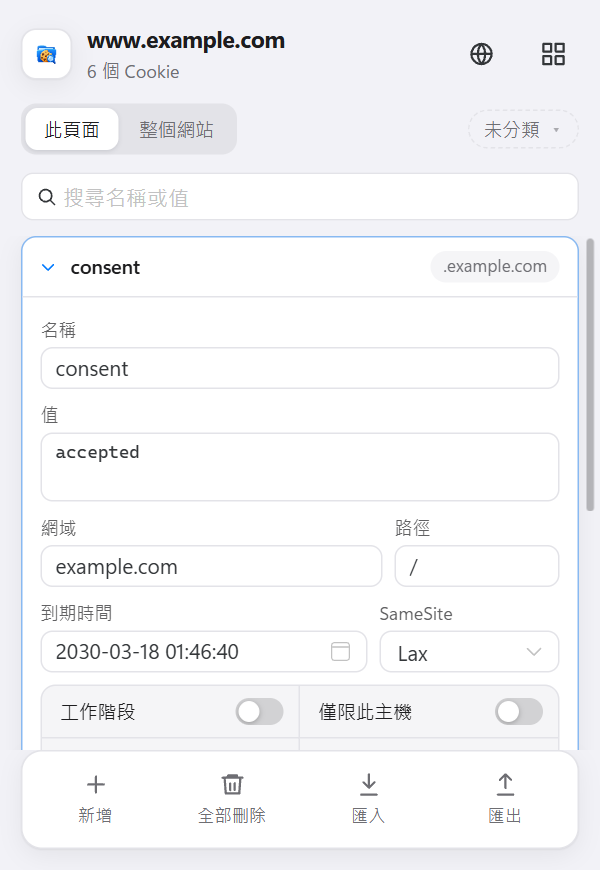
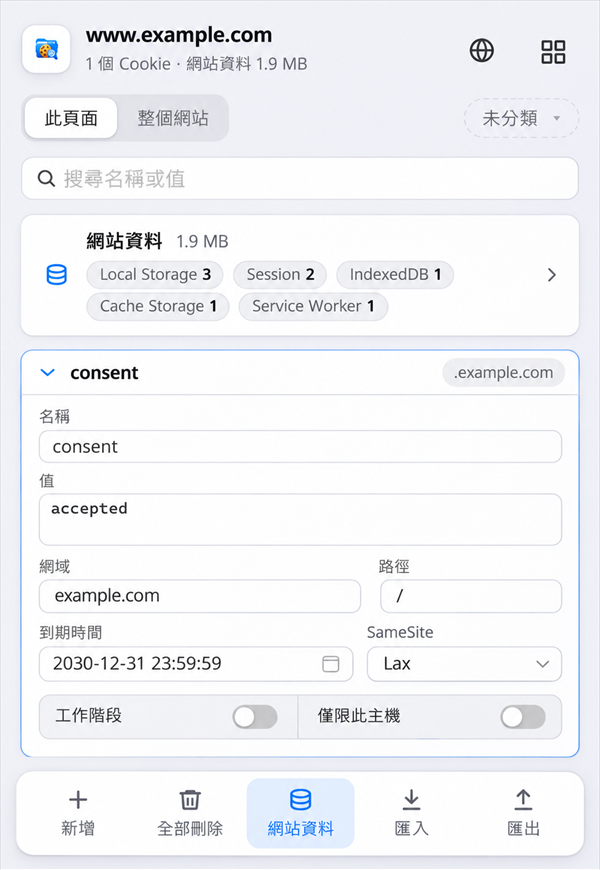
fix: 更新新版工具列截圖與展示文案
Replace the outdated popup screenshot with the current site-data interface and align the localized showcase copy with the displayed feature.

diff --git a/index.html b/index.html
@@ -134,7 +134,7 @@
         <div class="visual-stories">
           <article class="visual-story">
             <img src="assets/screenshots/cookie-editor.png" data-i18n-src="shots.editorSrc" width="1280" height="800" alt="Cookie Manager Cookie 編輯與網站資料管理畫面，使用虛構示範資料" loading="lazy" />
-            <div><h3 data-i18n="f1.t">依網站分類</h3><p data-i18n="f1.d">Cookie 會依主網站自動合併，再用自訂的彩色分類整理，例如工作、購物、社群。</p></div>
+            <div><h3 data-i18n="story.editor.t">管理目前網站</h3><p data-i18n="story.editor.d">從工具列直接編輯 Cookie、查看儲存空間，並依需要清除網站資料。</p></div>
           </article>
           <article class="visual-story">
             <img src="assets/illustrations/privacy.png" width="1536" height="1024" alt="電腦與防護盾，象徵資料保存在本機" loading="lazy" />
@@ -296,6 +296,8 @@ curl -H "Cookie: session_id=a1f9c2e7" \
         'shots.note': 'Actual interface · Synthetic demo data',
         'shots.title': 'Every site, at a glance',
         'shots.lead': 'Color-coded categories, quick search, and batch actions in one dashboard.',
+        'story.editor.t': 'Manage the current site',
+        'story.editor.d': 'Edit cookies, inspect storage, and clear site data directly from the toolbar.',
         'meta.title': 'Cookie Manager — Manage Cookies, Clear Cache & Site Data',
         'meta.description': 'Cookie Manager is a Chrome / Edge extension to organize, search, edit, and delete cookies by site, with JSON, Netscape (cookies.txt), and header string import and export. It also clears cache, Local Storage, IndexedDB, and other site data. Runs 100% locally: no account, no data collection.',
         'nav.features': 'Features',
@@ -360,6 +362,8 @@ curl -H "Cookie: session_id=a1f9c2e7" \
         'shots.note': '実際の画面 · 架空のデモデータを使用',
         'shots.title': 'すべてのサイトを、ひと目で',
         'shots.lead': '色分けした分類、検索、一括操作をひとつの管理画面で。',
+        'story.editor.t': '現在のサイトを管理',
+        'story.editor.d': 'ツールバーから Cookie の編集、ストレージの確認、サイトデータの削除ができます。',
         'meta.title': 'Cookie Manager — Cookie 管理とキャッシュ・サイトデータ削除',
         'meta.description': 'Cookie Manager は Cookie をサイトごとに分類・検索・編集・削除できる Chrome / Edge 拡張機能です。JSON、Netscape（cookies.txt）、ヘッダー文字列のインポートとエクスポートに対応し、キャッシュや Local Storage、IndexedDB などのサイトデータも削除できます。100% ローカルで動作し、アカウント不要、データ収集なし。',
         'nav.features': '機能',
